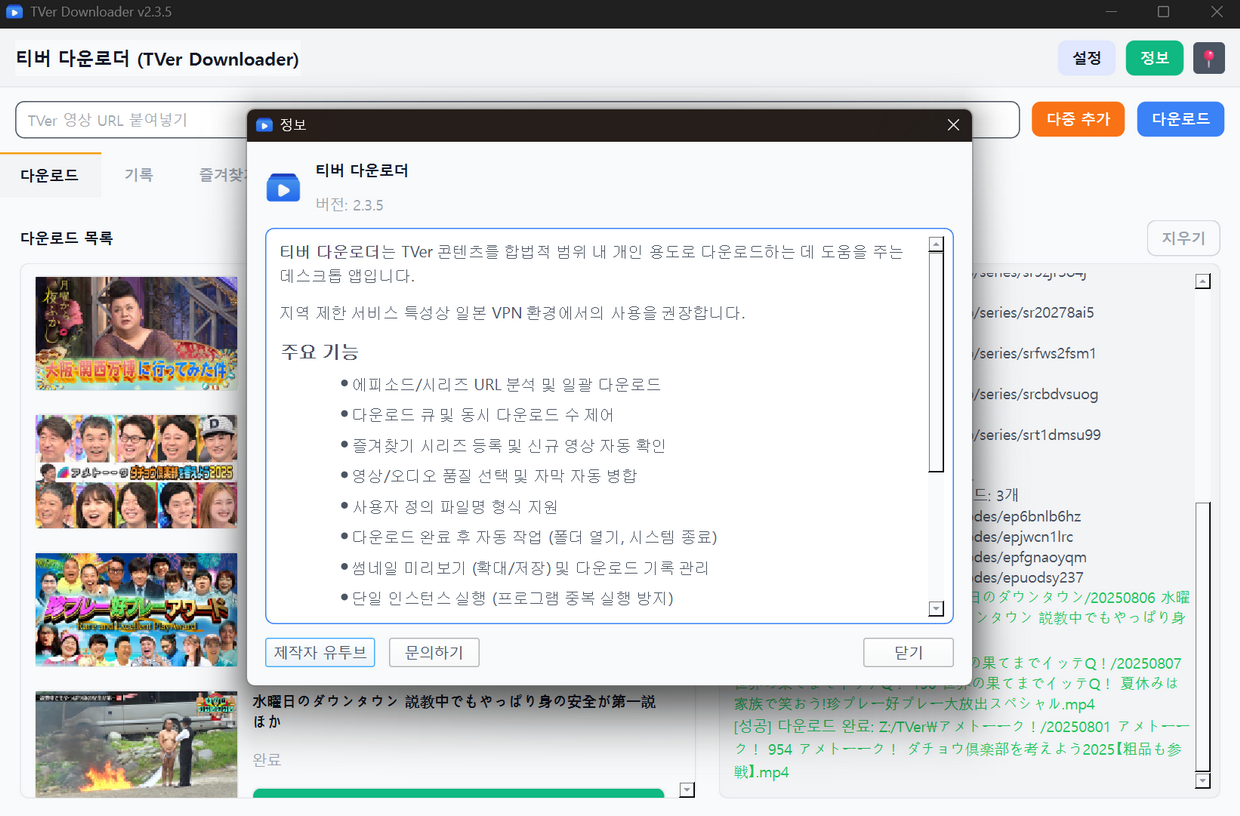
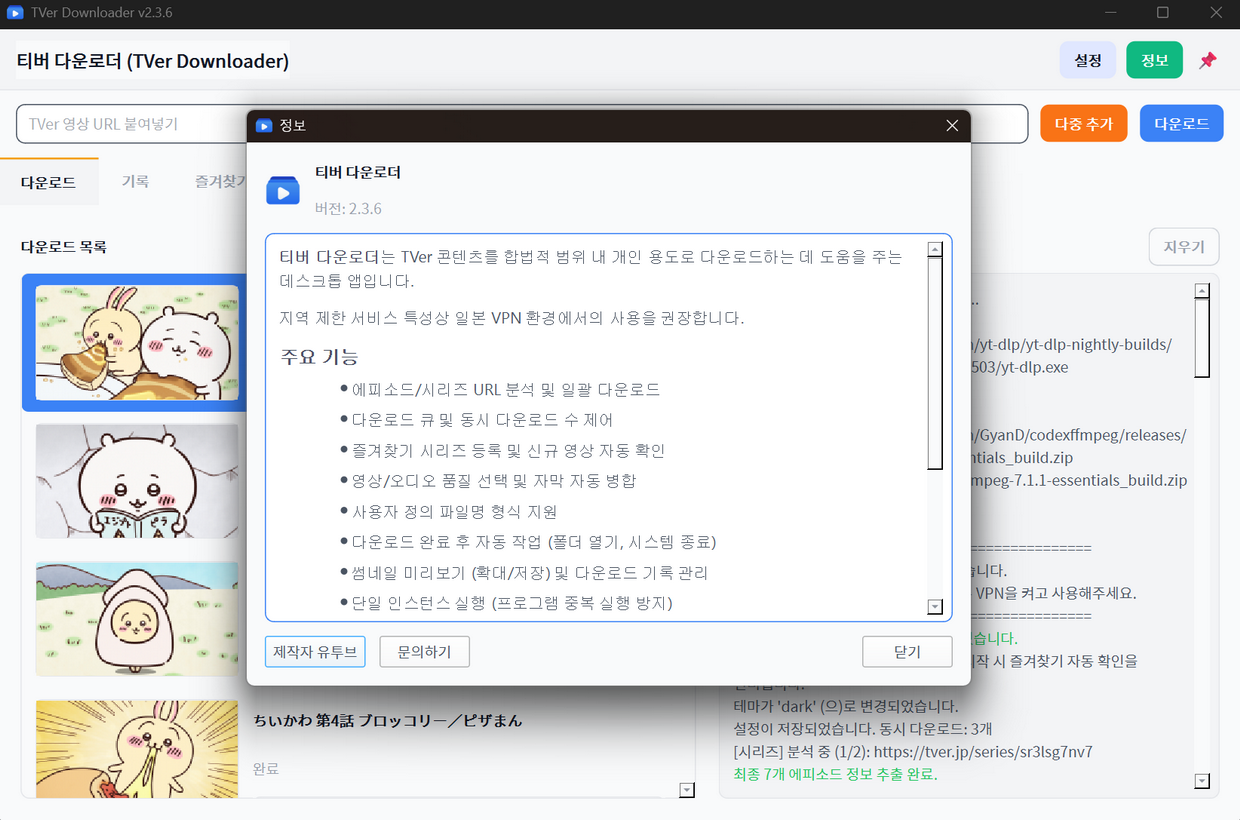
v2.3.6

diff --git a/TVerDownloader.py b/TVerDownloader.py
@@ -1,7 +1,4 @@
 # TVerDownloader.py
-# 수정:
-# - __init__에서 클립보드 감지 타이머 관련 코드 제거
-# - _check_clipboard 메서드 제거
 
 import sys
 import os
@@ -9,13 +6,14 @@ import re
 import webbrowser
 import subprocess
 from typing import List, Dict, Optional, Tuple
+from pathlib import Path
 
 from PyQt6.QtWidgets import (
     QApplication, QMainWindow, QListWidgetItem, QMessageBox, QSystemTrayIcon,
     QFileDialog, QMenu, QWidget
 )
 from PyQt6.QtCore import Qt, QEvent, QTimer
-from PyQt6.QtGui import QCursor, QAction, QGuiApplication
+from PyQt6.QtGui import QCursor, QAction, QGuiApplication, QFontDatabase, QFont
 from PyQt6.QtNetwork import QLocalServer, QLocalSocket
 
 from src.utils import load_config, save_config, handle_exception, open_file_location
@@ -35,7 +33,7 @@ from src.series_parser import SeriesParser
 from src.download_manager import DownloadManager
 
 APP_NAME_EN = "TVer Downloader"
-APP_VERSION = "2.3.5" # 버전 업데이트
+APP_VERSION = "2.3.6"
 SOCKET_NAME = "TVerDownloader_IPC_Socket"
 
 class MainWindow(QMainWindow):
@@ -215,8 +213,16 @@ class MainWindow(QMainWindow):
     def _request_add_task(self, url: str) -> bool:
         if self.history_store.exists(url):
             title = self.history_store.get_title(url)
-            reply = QMessageBox.question(self, '중복 다운로드', f"이미 다운로드한 항목입니다:\n\n{title}\n\n다시 다운로드할까요?", QMessageBox.StandardButton.Yes | QMessageBox.StandardButton.No, QMessageBox.StandardButton.No)
-            if reply == QMessageBox.StandardButton.No:
+            
+            msg_box = QMessageBox(self)
+            msg_box.setWindowTitle('중복 다운로드')
+            msg_box.setText(f"이미 다운로드한 항목입니다:\n\n{title}\n\n다시 다운로드할까요?")
+            msg_box.setStandardButtons(QMessageBox.StandardButton.Yes | QMessageBox.StandardButton.No)
+            msg_box.setDefaultButton(QMessageBox.StandardButton.No)
+            msg_box.button(QMessageBox.StandardButton.Yes).setText('예')
+            msg_box.button(QMessageBox.StandardButton.No).setText('아니오')
+            
+            if msg_box.exec() == QMessageBox.StandardButton.No:
                 self.append_log(f"[알림] 중복 다운로드 취소: {url}")
                 return False
         return self.download_manager.add_task(url)
@@ -432,15 +438,33 @@ class MainWindow(QMainWindow):
 
     def closeEvent(self, event):
         if self.force_quit: event.accept(); return
-        reply = QMessageBox.question(self, '종료 확인', '종료하시겠습니까?', QMessageBox.StandardButton.Yes | QMessageBox.StandardButton.No, QMessageBox.StandardButton.No)
-        if reply == QMessageBox.StandardButton.Yes: self.quit_application(); event.accept()
-        else: event.ignore()
+        
+        msg_box = QMessageBox(self)
+        msg_box.setWindowTitle('종료 확인')
+        msg_box.setText('종료하시겠습니까?')
+        msg_box.setStandardButtons(QMessageBox.StandardButton.Yes | QMessageBox.StandardButton.No)
+        msg_box.setDefaultButton(QMessageBox.StandardButton.No)
+        msg_box.button(QMessageBox.StandardButton.Yes).setText('예')
+        msg_box.button(QMessageBox.StandardButton.No).setText('아니오')
+
+        if msg_box.exec() == QMessageBox.StandardButton.Yes:
+            self.quit_application()
+            event.accept()
+        else:
+            event.ignore()
 
     def quit_application(self):
         self.append_log("프로그램을 종료합니다...")
         for url in list(self.download_manager._active_threads.keys()): self.download_manager.stop_task(url)
         self.force_quit = True; self.tray_icon.hide(); QApplication.instance().quit()
 
+def get_resource_path(relative_path):
+    """ Get absolute path to resource, works for dev and for PyInstaller """
+    try:
+        base_path = Path(sys._MEIPASS)
+    except Exception:
+        base_path = Path(".").resolve()
+    return base_path / relative_path
 
 if __name__ == "__main__":
     sys.excepthook = handle_exception
@@ -448,6 +472,18 @@ if __name__ == "__main__":
     
     config = load_config()
     theme = config.get("theme", "light")
+    
+    font_path = get_resource_path(Path("fonts/NotoSansCJKkr-Regular.otf"))
+    if font_path.exists():
+        font_id = QFontDatabase.addApplicationFont(str(font_path))
+        if font_id != -1:
+            family = QFontDatabase.applicationFontFamilies(font_id)[0]
+            app.setFont(QFont(family))
+        else:
+            print("WARNING: Font file could not be loaded.")
+    else:
+        print(f"INFO: Custom font not found at '{font_path}', using system default.")
+
     app.setStyleSheet(build_qss(theme))
     
     socket = QLocalSocket()

diff --git a/src/widgets.py b/src/widgets.py
@@ -1,8 +1,6 @@
 # src/widgets.py
 # 수정:
-# - HistoryItemWidget._load_or_download_thumbnail:
-#   - 시리즈 ID 확인 로직을 제거하고, 에피소드 고유의 thumbnail_url만 사용하도록 로직 단순화
-#   - 에피소드 썸네일은 에피소드 ID를 기준으로 캐싱
+# - HistoryItemWidget: 항목 간 세로 간격을 줄이기 위해 내부 상하 여백(margin)을 8px에서 4px로 조정
 
 from __future__ import annotations
 import os
@@ -131,7 +129,6 @@ class FavoriteItemWidget(QWidget):
         self.last_check_label = QLabel(f"마지막 확인: {self.meta.get('last_check', '-')}"); self.last_check_label.setObjectName("PaneSubtitle")
         info_layout.addWidget(self.url_label); info_layout.addWidget(self.last_check_label); info_layout.addStretch(1); root.addWidget(info_widget, 1)
         self._load_or_download_thumbnail()
-
     def _load_or_download_thumbnail(self):
         try:
             series_id = self.url.strip('/').split('/')[-1]
@@ -161,7 +158,9 @@ class HistoryItemWidget(QWidget):
         super().__init__(parent)
         self.setObjectName("HistoryItem"); self.url = url; self.meta = meta
         THUMBNAIL_CACHE_DIR.mkdir(parents=True, exist_ok=True)
-        root = QHBoxLayout(self); root.setContentsMargins(8, 8, 8, 8); root.setSpacing(12)
+        root = QHBoxLayout(self)
+        root.setContentsMargins(8, 4, 8, 4) # 상하 여백을 4px로 수정
+        root.setSpacing(12)
         self.thumb_label = QLabel(objectName="Thumb", alignment=Qt.AlignmentFlag.AlignCenter); self.thumb_label.setFixedSize(128, 72); root.addWidget(self.thumb_label)
         info_widget = QWidget(); info_layout = QVBoxLayout(info_widget)
         info_layout.setContentsMargins(0, 0, 0, 0); info_layout.setSpacing(4)
@@ -173,16 +172,11 @@ class HistoryItemWidget(QWidget):
         self._load_or_download_thumbnail()
 
     def _load_or_download_thumbnail(self):
-        # 시리즈 ID 대신 에피소드 고유 썸네일 URL을 직접 사용
         episode_thumb_url = self.meta.get("thumbnail_url")
-        if not episode_thumb_url:
-            return
-            
+        if not episode_thumb_url: return
         try:
-            # 캐시 파일명은 에피소드 ID를 기준으로 생성
             episode_id = self.url.strip('/').split('/')[-1]
             cache_path = THUMBNAIL_CACHE_DIR / f"{episode_id}.jpg"
-            
             if cache_path.exists():
                 self._set_thumbnail_pixmap(QPixmap(str(cache_path)))
             else:
